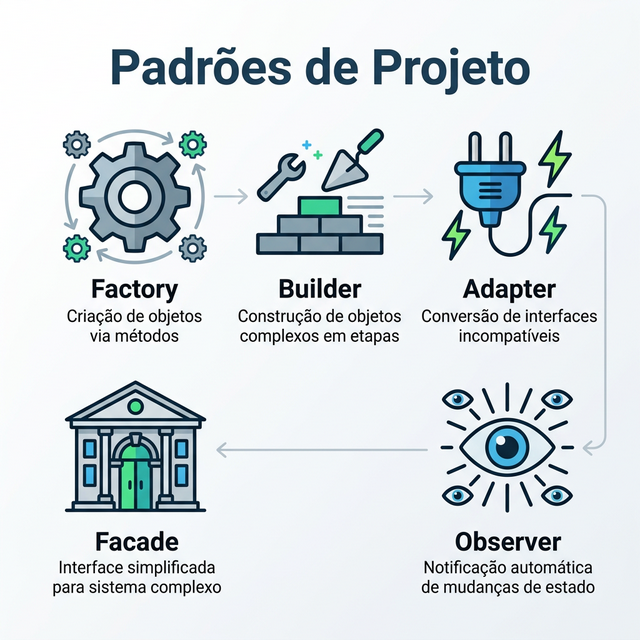
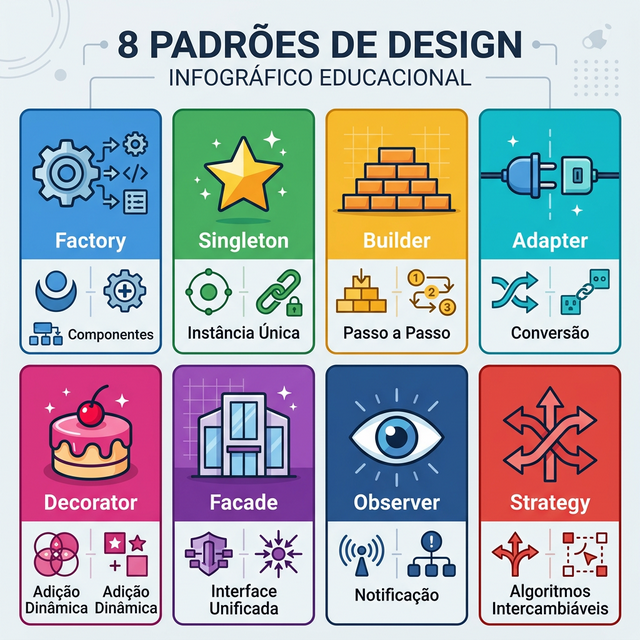
refactor: Introduce new Design Patterns

diff --git a/teoria/modulo_05_padroes_projeto_boas_praticas.md b/teoria/modulo_05_padroes_projeto_boas_praticas.md
@@ -1,4 +1,4 @@
-# Módulo 5: Projeto Orientado a Objetos Avançado
+# Módulo 5: Padrões de Projeto e Boas Práticas
 
 ## Sumario
 - [5.1 Principios SOLID](#51-principios-solid)
@@ -11,11 +11,14 @@
 - [5.2 GRASP](#52-grasp)
 - [5.3 Padroes de Projeto Modernos](#53-padroes-de-projeto-modernos-gof)
   - [5.3.1 Factory Method](#531-factory-method-criacional)
-  - [5.3.2 Builder](#532-builder-criacional)
-  - [5.3.3 Adapter](#533-adapter-estrutural)
-  - [5.3.4 Facade](#534-facade-estrutural)
-  - [5.3.5 Observer](#535-observer-comportamental)
-  - [5.3.6 Comparativo dos Padroes](#536-comparativo-dos-padroes)
+  - [5.3.2 Singleton](#532-singleton-criacional)
+  - [5.3.3 Builder](#533-builder-criacional)
+  - [5.3.4 Adapter](#534-adapter-estrutural)
+  - [5.3.5 Decorator](#535-decorator-estrutural)
+  - [5.3.6 Facade](#536-facade-estrutural)
+  - [5.3.7 Observer](#537-observer-comportamental)
+  - [5.3.8 Strategy](#538-strategy-comportamental)
+  - [5.3.9 Comparativo dos Padroes](#539-comparativo-dos-padroes)
 - [5.4 Repository Pattern](#54-repository-pattern)
 - [5.5 Anti-patterns](#55-anti-patterns)
 - [Referencias](#referencias)
@@ -883,7 +886,64 @@ public class SistemaNotificacao {
 
 ---
 
-### 5.3.2 Builder (Criacional)
+### 5.3.2 Singleton (Criacional)
+
+> "Garanta que uma classe tenha apenas uma instância e forneça um ponto global de acesso a ela." - GoF [4]
+
+O padrão Singleton assegura que apenas um objeto de uma determinada classe seja criado em todo o sistema. Isso é útil para recursos compartilhados que precisam ser inicializados uma única vez, como configurações, pools de conexão com banco de dados ou sistemas de log.
+
+**Como identificar o uso de Singleton:**
+- Construtores privados.
+- Um método estático público (geralmente chamado `getInstance()`) que retorna a única instância da classe.
+
+**Exemplo (com o padrão):**
+
+```java
+public class DatabaseConnection {
+    // A única instância da classe
+    private static DatabaseConnection instanciaUnica;
+    private Connection conexao;
+
+    // Construtor PRIVADO impede a criação direta de novas instâncias
+    private DatabaseConnection() {
+        // Inicializar conexão
+        this.conexao = DriverManager.getConnection("jdbc:mysql://localhost/app", "user", "pass");
+    }
+
+    // Ponto global de acesso
+    public static DatabaseConnection getInstance() {
+        if (instanciaUnica == null) {
+            instanciaUnica = new DatabaseConnection();
+        }
+        return instanciaUnica;
+    }
+
+    public Connection getConexao() {
+        return conexao;
+    }
+}
+```
+
+**Cuidados:** o Singleton pode ser considerado um anti-pattern se abusado (tornando-se uma "variável global glorificada" que aumenta o acoplamento e dificulta testes). Use com moderação.
+
+**Exercício 5.3.2:** Qual é o principal mecanismo usado para garantir que uma classe Singleton não seja instanciada mais de uma vez externamente?
+
+- a) Tornar a classe abstract.
+- b) Fazer com que os métodos sejam protegidos.
+- c) Usar um construtor privado e um método estático.
+- d) Utilizar a palavra-chave final na classe.
+
+<details>
+<summary>Ver Resposta</summary>
+
+**Resposta:** c) Usar um construtor privado e um método estático.
+
+**Explicação:** O construtor privado evita que a palavra-chave `new` seja usada fora da classe. O método estático (`getInstance()`) fornece acesso global à única instância, criando-a apenas na primeira vez que for chamado.
+</details>
+
+---
+
+### 5.3.3 Builder (Criacional)
 
 > "Separe a construcao de um objeto complexo da sua representacao, de forma que o mesmo processo de construcao possa criar diferentes representacoes." - GoF [4]
 
@@ -1052,7 +1112,7 @@ Relatorio relatorio = new Relatorio.Builder()
 
 ---
 
-### 5.3.3 Adapter (Estrutural)
+### 5.3.4 Adapter (Estrutural)
 
 > "Converta a interface de uma classe em outra interface que os clientes esperam. O Adapter permite que classes com interfaces incompativeis trabalhem juntas." - GoF [4]
 
@@ -1172,7 +1232,76 @@ loja2.finalizarCompra(150.00, "4111-1111-1111-1111");
 
 ---
 
-### 5.3.4 Facade (Estrutural)
+### 5.3.5 Decorator (Estrutural)
+
+> "Atribua responsabilidades adicionais a um objeto de forma dinâmica. Decorators fornecem uma alternativa flexível à herança para estender funcionalidades." - GoF [4]
+
+O padrão Decorator permite que você envolva objetos dentro de objetos especiais (os "decorators") com a mesma interface base, adicionando comportamento antes ou depois de passar as chamadas ao objeto embrulhado.
+
+**Analogia:** Pense em comprar um café. Você pede um "Café Simples", mas pode "decorar" o café com "Leite", "Chantilly" ou "Caramelo". O preço final é calculado passando pelos vários decorators aplicados.
+
+**Exemplo (com o padrão):**
+
+```java
+// Componente base
+public interface Cafe {
+    double getCusto();
+    String getDescricao();
+}
+
+public class CafeSimples implements Cafe {
+    public double getCusto() { return 2.0; }
+    public String getDescricao() { return "Café simples"; }
+}
+
+// Decorator base
+public abstract class CafeDecorator implements Cafe {
+    protected Cafe cafeDecorado;
+
+    public CafeDecorator(Cafe cafe) {
+        this.cafeDecorado = cafe;
+    }
+}
+
+// Decorator concreto: Adiciona Leite
+public class ComLeite extends CafeDecorator {
+    public ComLeite(Cafe cafe) { super(cafe); }
+
+    public double getCusto() {
+        return super.cafeDecorado.getCusto() + 1.5;
+    }
+
+    public String getDescricao() {
+        return super.cafeDecorado.getDescricao() + ", com leite";
+    }
+}
+
+// Uso:
+// Cafe meuCafe = new CafeSimples();
+// meuCafe = new ComLeite(meuCafe);
+// System.out.println(meuCafe.getDescricao() + " = R$" + meuCafe.getCusto());
+```
+
+**Benefícios:** Você adiciona novas funcionalidades sem violar o princípio Open/Closed e sem criar infinitas subclasses (ex: `CafeComLeite`, `CafeComChantilly`, `CafeComLeiteEChantilly`).
+
+**Exercício 5.3.5:** Qual é a principal vantagem do padrao Decorator em relação à herança?
+
+- a) Reduz o número de classes geradas.
+- b) Permite estender o comportamento de objetos de forma dinâmica.
+- c) Garante alta performance na execução.
+- d) Oculta os detalhes internos de implementação do objeto decorado.
+
+<details>
+<summary>Ver Resposta</summary>
+
+**Resposta:** b) Permite estender o comportamento de objetos de forma dinâmica.
+
+**Explicação:** Com a herança, o comportamento é estático e fixado. Com Decorators, você pode combinar múltiplos comportamentos durante a execução.
+</details>
+
+---
+
+### 5.3.6 Facade (Estrutural)
 
 > "Forneca uma interface unificada para um conjunto de interfaces em um subsistema. O Facade define uma interface de nivel mais alto que torna o subsistema mais facil de usar." - GoF [4]
 
@@ -1320,7 +1449,7 @@ public class CheckoutApiMobile {
 
 ---
 
-### 5.3.5 Observer (Comportamental)
+### 5.3.7 Observer (Comportamental)
 
 > "Defina uma dependencia um-para-muitos entre objetos, de modo que quando um objeto muda de estado, todos os seus dependentes sao notificados e atualizados automaticamente." - GoF [4]
 
@@ -1482,17 +1611,45 @@ pedido.alterarStatus("ENVIADO");
 
 ---
 
-### 5.3.6 Comparativo dos Padroes
+### 5.3.8 Strategy (Comportamental)
+
+> "Defina uma família de algoritmos, encapsule cada um deles e torne-os intercambiáveis. Strategy permite que o algoritmo varie independentemente dos clientes que o utilizam." - GoF [4]
+
+Vimos um exemplo prático de Strategy no Princípio **Open/Closed (OCP)**. Em vez de termos múltiplos blocos condicionais (`if/else` ou `switch`) dentro de um contexto, extraímos cada lógica para uma classe separada com uma interface comum.
+
+**Exemplo Prático:** A implementação de uma Calculadora de Impostos no Brasil, sem Strategy, teria uma cascata enorme de `if (tipo == "ICMS") ... else if (tipo == "ISS") ...`. Com o padrão Strategy, cada imposto vira uma classe como `ImpostoICMS` implementando uma interface comum `EstrategiaImposto` e o fluxo orquestrador só lida com a abstração.
+
+**Exercício 5.3.8:** Qual dos princípios SOLID é mais intimamente relacionado com o padrão Strategy?
+
+- a) Single Responsibility Principle (SRP)
+- b) Open/Closed Principle (OCP)
+- c) Interface Segregation Principle (ISP)
+- d) Liskov Substitution Principle (LSP)
+
+<details>
+<summary>Ver Resposta</summary>
+
+**Resposta:** b) Open/Closed Principle (OCP)
+
+**Explicação:** O padrão Strategy é a "ferramenta visual" mais comum para implementar o OCP. Adicionar uma nova Strategy não exige modificação do contexto (Closed for modification), mas a funcionalidade do sistema é expandida por causa da nova classe adicionada (Open for extension).
+</details>
+
+---
+
+### 5.3.9 Comparativo dos Padroes
 
 | Padrao | Categoria | Quando usar | Problema que resolve |
 |--------|-----------|-------------|---------------------|
 | **Factory** | Criacional | Criacao de objetos depende de condicoes | Acoplamento entre cliente e classes concretas |
+| **Singleton** | Criacional | Garantir apenas uma instância de um recurso compartilhado | Múltiplas instâncias consumindo recursos despiciendos |
 | **Builder** | Criacional | Objetos com muitos parametros opcionais | Construtores confusos e ilegíveis |
 | **Adapter** | Estrutural | Integrar classes com interfaces incompativeis | Incompatibilidade entre interfaces |
+| **Decorator** | Estrutural | Adicionar propriedades e comportamentos dinamicamente | Explosão do número de subclasses na hierarquia |
 | **Facade** | Estrutural | Simplificar acesso a subsistemas complexos | Complexidade excessiva para o cliente |
 | **Observer** | Comportamental | Reagir a mudancas de estado | Acoplamento entre quem notifica e quem escuta |
+| **Strategy** | Comportamental | Alternar entre algoritmos em tempo de execução | Múltiplos if/else ou swicthes para definir comportamento |
 
-![Um conjunto de 5 ícones acompanhados de breves descrições conceituais dos padrões de projeto: Factory, Builder, Adapter, Facade, Observer](../imagens/imagem_12_design_patterns_icons.png)
+![Um conjunto de 8 ícones acompanhados de breves descrições conceituais dos padrões de projeto: Factory, Singleton, Builder, Adapter, Decorator, Facade, Observer, Strategy](../imagens/imagem_12_design_patterns_icons.png)
 
 ## 5.4 Repository Pattern
 

diff --git a/README.md b/README.md
@@ -48,9 +48,9 @@ engenharia-software-moderna/
 | | | 4.4 Introdução a DDD | Entidade vs Value Object, Agregados |
 | | | 4.5 Bounded Context | Contextos Delimitados, Linguagem Ubíqua |
 | | | 4.6 Monólito vs Microserviços | Escalabilidade, Complexidade Distribuída |
-| **Módulo 5** | OO Avançado | 5.1 Princípios SOLID | SRP, OCP, LSP, ISP, DIP |
+| **Módulo 5** | Padrões de Projeto e Boas Práticas | 5.1 Princípios SOLID | SRP, OCP, LSP, ISP, DIP |
 | | | 5.2 GRASP | Controller, Creator, High Cohesion, Low Coupling |
-| | | 5.3 Padrões de Projeto Modernos | Factory, Adapter, Facade, Observer |
+| | | 5.3 Padrões de Projeto Modernos | Factory, Singleton, Builder, Adapter, Decorator, Facade, Observer, Strategy |
 | | | 5.4 Repository Pattern | Abstração de acesso a dados |
 | | | 5.5 Anti-patterns | God Class, Spaghetti Code, Golden Hammer |
 | **Módulo 6** | Implementação e Qualidade | 6.1 Do Modelo ao Código | Traceability, Rastreabilidade |
@@ -71,7 +71,7 @@ engenharia-software-moderna/
 | Módulo 2<br>Requisitos Modernos | [Teoria](teoria/modulo_02_requisitos_modernos.md) | [Exercícios](exercicios/modulo_02_exercicios_requisitos_modernos.md) | [Projeto](projetos/modulo_02_projeto_requisitos_modernos.md) |
 | Módulo 3<br>Modelagem e Documentação | [Teoria](teoria/modulo_03_modelagem_e_documentacao.md) | [Exercícios](exercicios/modulo_03_exercicios_modelagem_e_documentacao.md) | [Projeto](projetos/modulo_03_projeto_modelagem_e_documentacao.md) |
 | Módulo 4<br>Arquitetura Moderna | [Teoria](teoria/modulo_04_arquitetura_moderna.md) | [Exercícios](exercicios/modulo_04_exercicios_arquitetura_moderna.md) | [Projeto](projetos/modulo_04_projeto_arquitetura_moderna.md) |
-| Módulo 5<br>OO Avançado | [Teoria](teoria/modulo_05_oo_avancado.md) | [Exercícios](exercicios/modulo_05_exercicios_oo_avancado.md) | [Projeto](projetos/modulo_05_projeto_oo_avancado.md) |
+| Módulo 5<br>Padrões de Projeto e Boas Práticas | [Teoria](teoria/modulo_05_oo_avancado.md) | [Exercícios](exercicios/modulo_05_exercicios_oo_avancado.md) | [Projeto](projetos/modulo_05_projeto_oo_avancado.md) |
 | Módulo 6<br>Implementação e Qualidade | [Teoria](teoria/modulo_06_implementacao_e_qualidade.md) | [Exercícios](exercicios/modulo_06_exercicios_implementacao_e_qualidade.md) | [Projeto](projetos/modulo_06_projeto_implementacao_e_qualidade.md) |
 | Módulo 7<br>DevOps e Entrega Contínua | [Teoria](teoria/modulo_07_devops_e_entrega_continua.md) | [Exercícios](exercicios/modulo_07_exercicios_devops_e_entrega_continua.md) | [Projeto](projetos/modulo_07_projeto_devops_e_entrega_continua.md) |
 

diff --git a/conteudo.md b/conteudo.md
@@ -25,9 +25,9 @@
 |  |  | 4.4 Introdução a DDD | Entidades, Value Objects, Agregados |
 |  |  | 4.5 Bounded Context | Organização de domínios complexos |
 |  |  | 4.6 Monólito vs Microserviços | Quando usar cada abordagem |
-| **Módulo 5** | 5. Projeto Orientado a Objetos Avançado | 5.1 Princípios SOLID | Aplicação prática |
+| **Módulo 5** | 5. Padrões de Projeto e Boas Práticas | 5.1 Princípios SOLID | Aplicação prática |
 |  |  | 5.2 GRASP | Creator, Controller, Low Coupling |
-|  |  | 5.3 Padrões de Projeto Modernos | Factory, Builder, Adapter, Facade, Observer |
+|  |  | 5.3 Padrões de Projeto Modernos | Factory, Singleton, Builder, Adapter, Decorator, Facade, Observer, Strategy |
 |  |  | 5.4 Repository Pattern | Persistência desacoplada |
 |  |  | 5.5 Anti-patterns | God Object, acoplamento excessivo |
 | **Módulo 6** | 6. Implementação e Qualidade | 6.1 Do modelo ao código | Tradução de diagramas e domínio para código |
